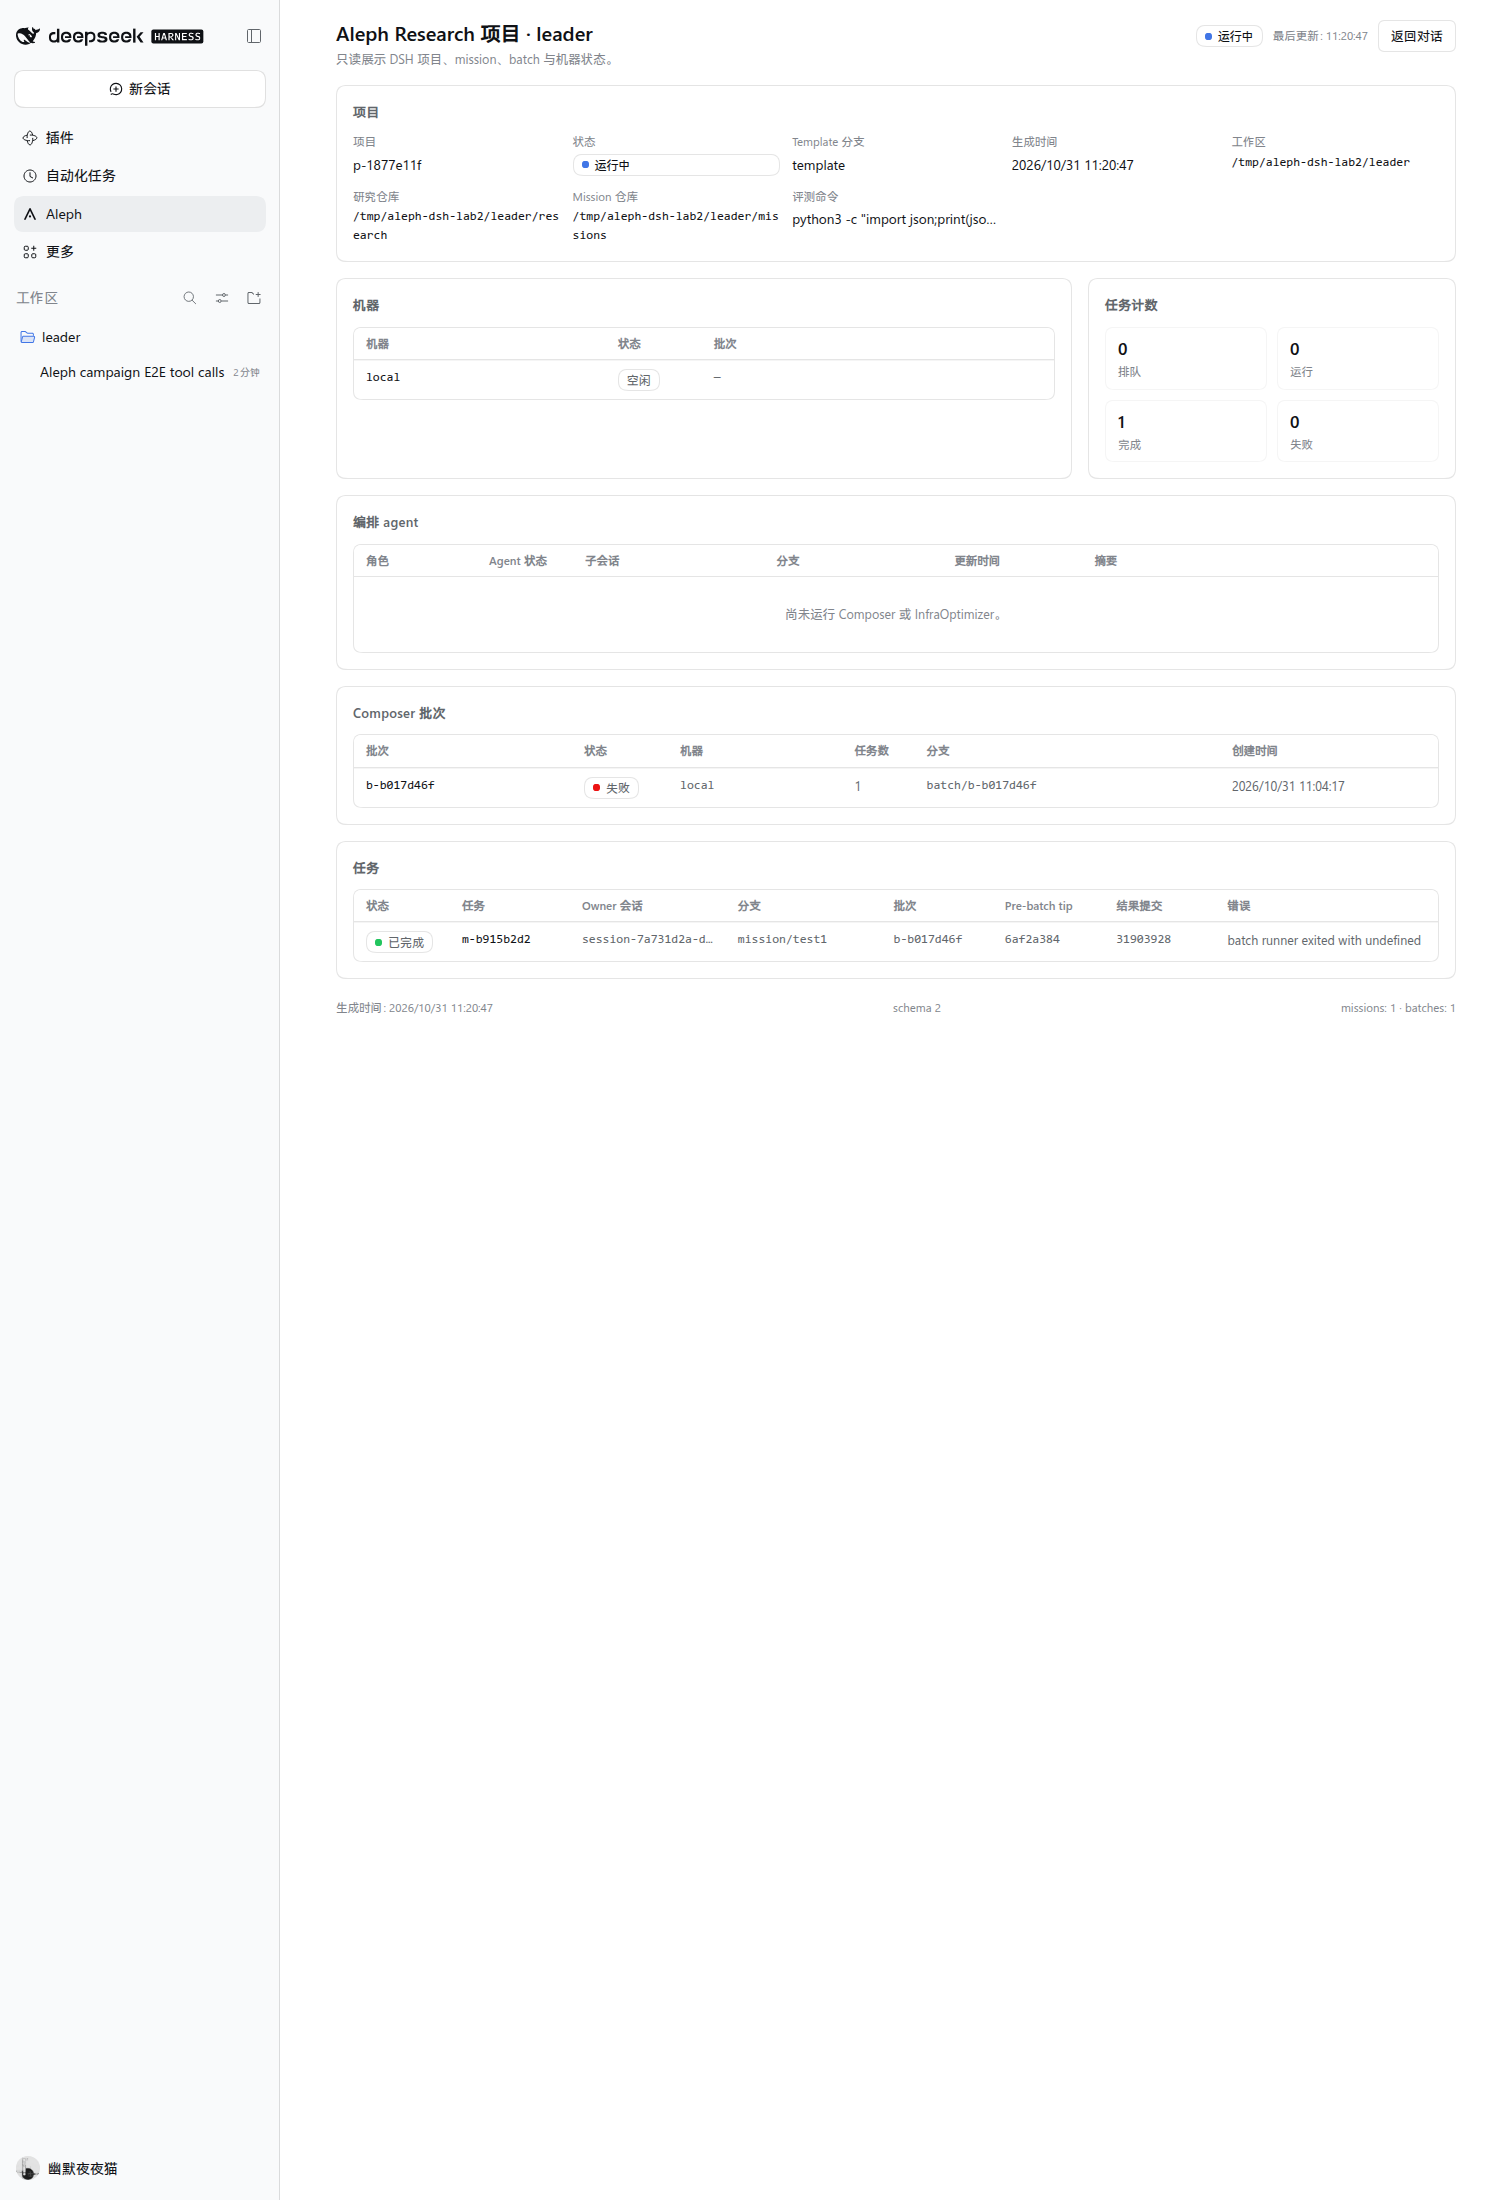
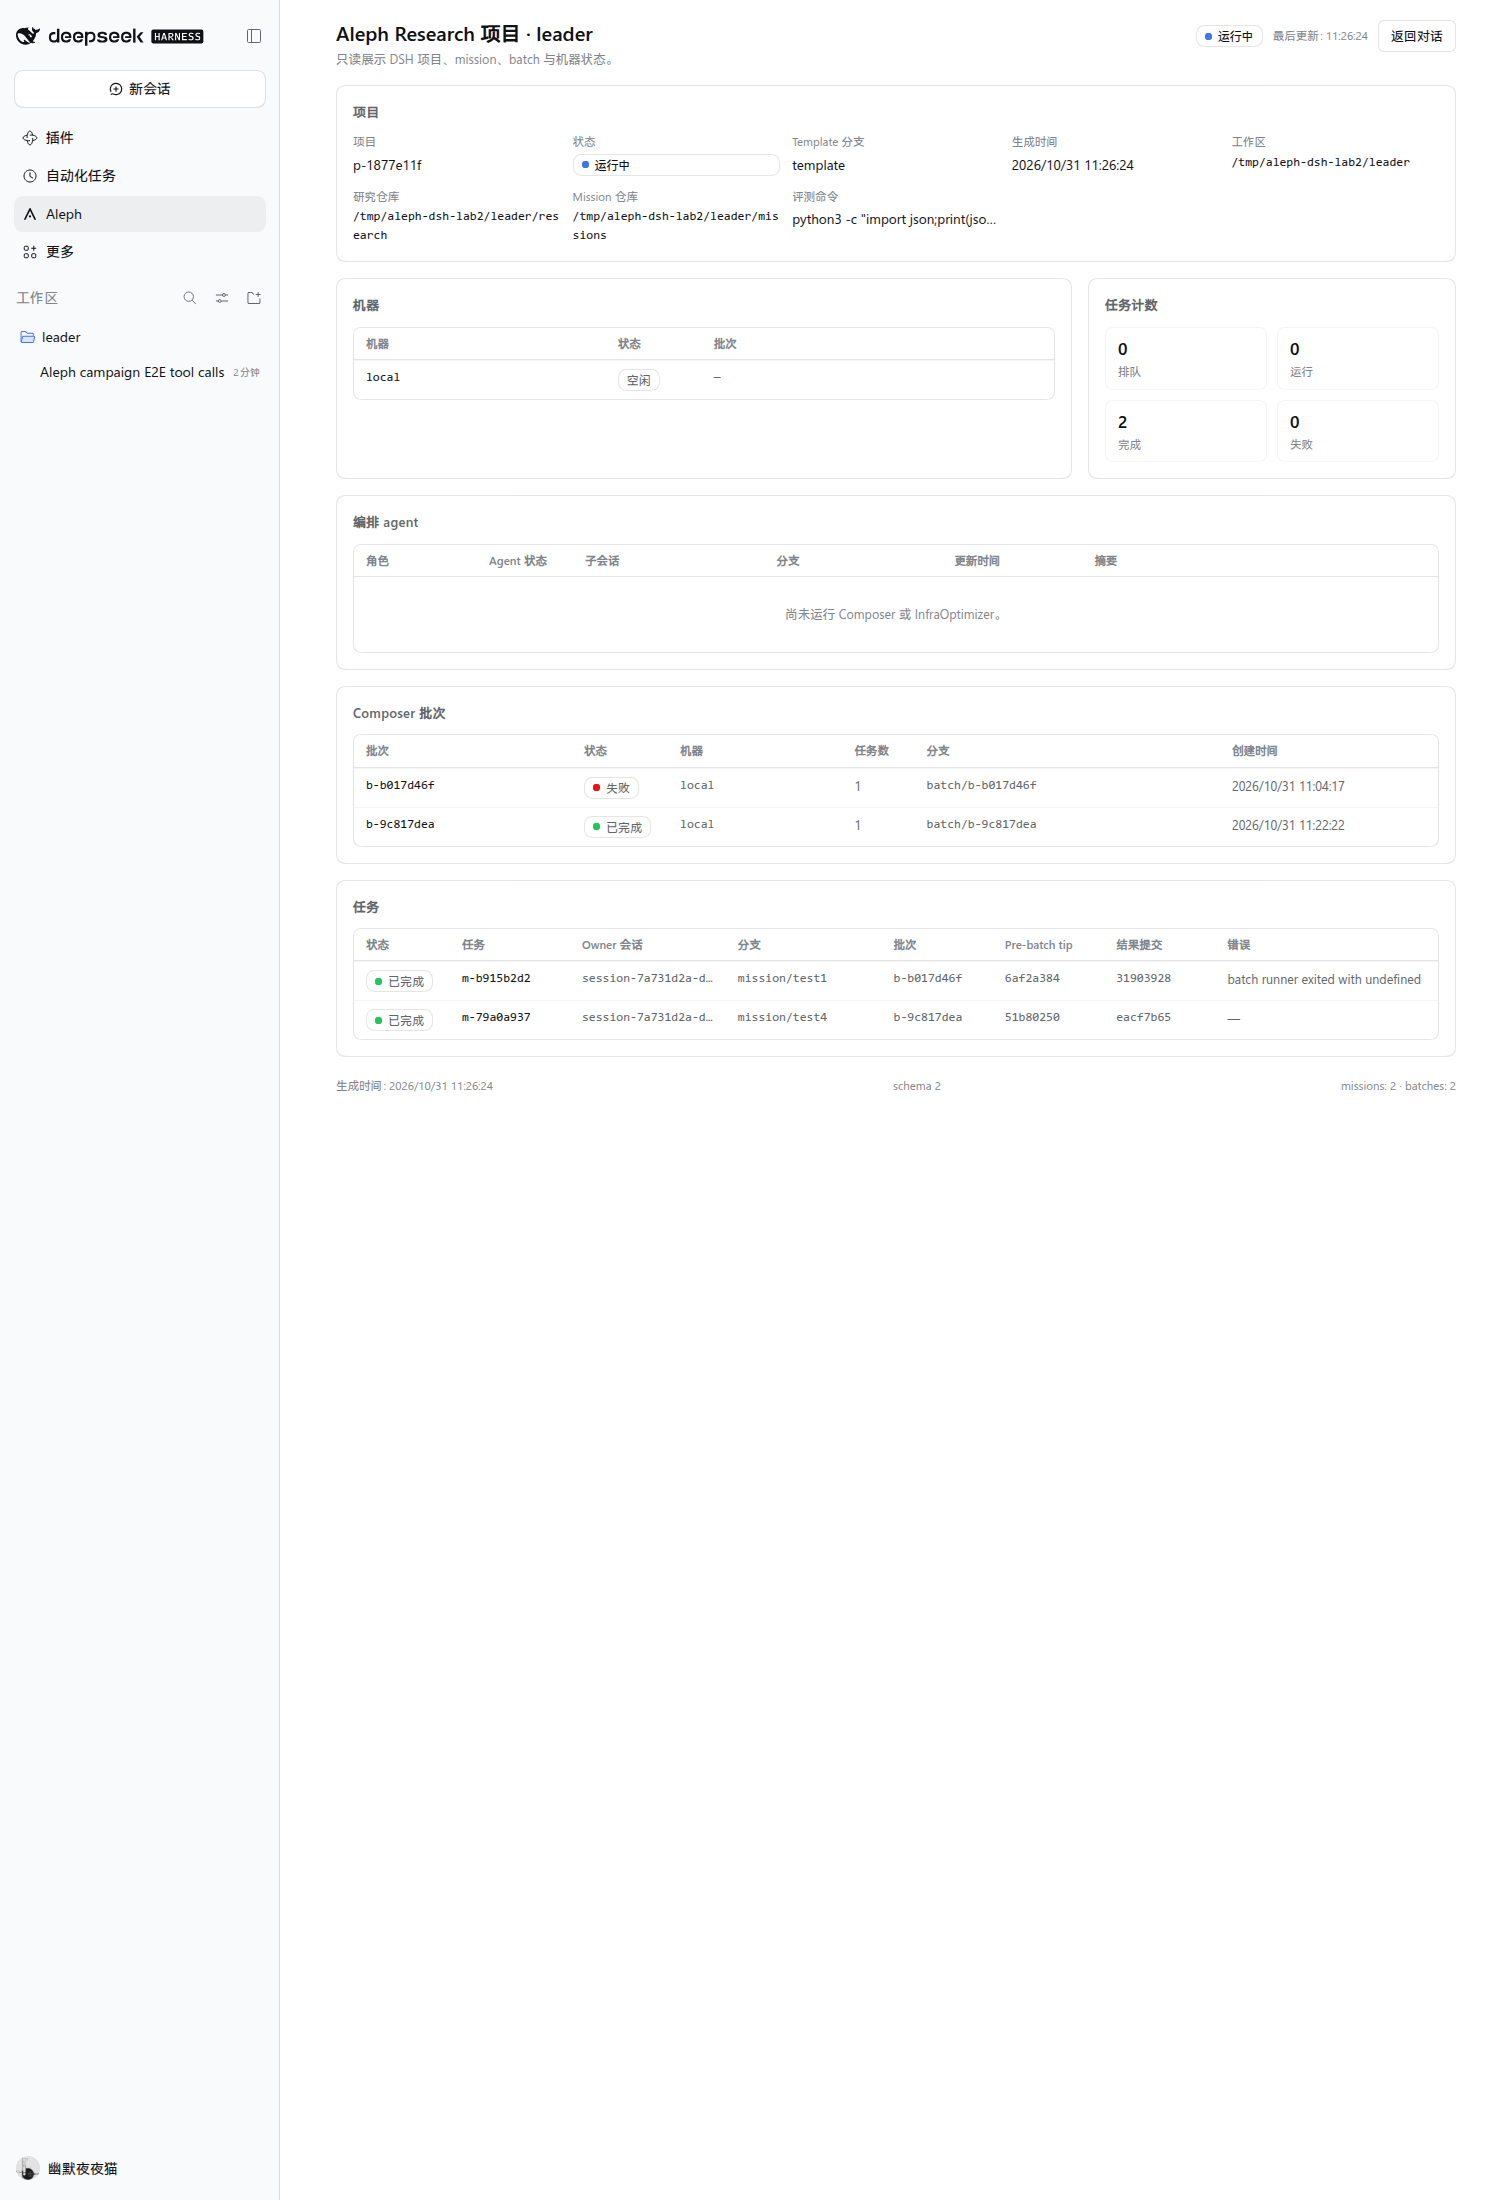
test: cover project missions, batches and result delivery
Add a Node integration test with a mock storage table and temporary git repositories. It covers project initialization, mission proposal, owner-specific waiting, Leader approval, Composer batch formation, batch execution, result envelope, cherry-pick to the pre-batch mission branch and research evaluation.

Document the InfraOptimizer batch closure on project p-1877e11f: batch b-9c817dea done, result commit eacf7b6 cherry-picked to mission/test4, machine returned idle.

diff --git a/dsh-plugin/index-v2.js b/dsh-plugin/index-v2.js
@@ -343,7 +343,6 @@ class ProjectService {
   async runBatch({ projectId, batchId }) {
     const project = this.get(projectId);
     if (!project) throw new Error(`project not found: ${projectId}`);
-    this.assertWorkspace(agent, project.workspace);
     const batch = project.batches.find((item) => item.id === batchId);
     if (!batch) throw new Error(`batch not found: ${batchId}`);
     if (batch.status !== 'forming') throw new Error(`batch ${batchId} is not runnable (status ${batch.status})`);
@@ -595,9 +594,10 @@ class ProjectService {
     const prompt = [
       'You are InfraOptimizer for AlephResearch.',
       `Batch: ${batch.id}. Machine: ${batch.machineId}. Work only inside this worktree: ${worktree}.`,
-      'Optimize the merged batch code for the actual machine: profile CPU/GPU/memory/IO, remove redundant work, tune threading, batching, precision, caching, data loading and runtime parameters.',
-      'Use short bounded benchmarks only. Do not start large training jobs, sweeps, background jobs or extra agents. Do not change project budget, queue or scheduling constraints.',
-      'Write ALEPH_HANDOFF.md with changes and before/after measurements. The Host commits the batch branch and then runs the single batch entrypoint.',
+      'Optimize only files under the current worktree. Do not inspect /home, /root, DSH profile/state, other projects, or search the filesystem. Do not start extra agents.',
+      'First read the batch files and the manifest. Make at most one focused optimization to threading, batching, import cost, allocation, precision or caching. Run one small before/after benchmark if cheap; otherwise inspect statically.',
+      'Use at most six shell commands total. If no safe improvement is justified, write ALEPH_HANDOFF.md and stop without changing code.',
+      'Write ALEPH_HANDOFF.md with changes and before/after measurements. Do not change project budget, queue or scheduling constraints. The Host commits the batch branch and runs the single batch entrypoint.',
     ].join('\n');
     const abort = new AbortController();
     let activation;
@@ -858,3 +858,5 @@ export async function apply(ctx) {
     },
   });
 }
+
+export { ProjectService, snapshot };

diff --git a/docs/STATUS.md b/docs/STATUS.md
@@ -27,13 +27,29 @@
 
 项目 `p-1877e11f`：
 
-- MissionComposer 创建 batch `b-61469d71`。
-- researcher 子会话 `f4fce692` 在 research repo 完成研究、evaluate，并写入
-  research commit `7fe854e`。
+- MissionComposer 创建 batch `b-9c817dea` 并绑定 local 机器。
+- InfraOptimizer 完成 batch 优化与运行；batch 状态 done，机器恢复 idle。
+- mission `m-79a0a937` 结果写入 `results/m-test4/result.json`，结果提交
+  `eacf7b6` cherry-pick 回 `mission/test4`。
+- researcher 子会话 `f4fce692` 完成研究、evaluate，并写入 research commit
+  `7fe854e`。
+
+## 测试
+
+`dsh-plugin/test/project.test.mjs` 使用临时 git repo 与 mock storage table 覆盖：
+
+- project 初始化与 template branch
+- mission 提案、自有 mission 等待、其他 researcher 不阻塞
+- Leader 审批
+- Composer 合并 batch
+- batch 运行与 per-mission result envelope
+- 结果 cherry-pick 回 pre-batch mission branch
+- research evaluate 与报告写入 research commit
+
+运行方式：`cd dsh-plugin && npm test`。
 
 ## 待完成
 
-- InfraOptimizer batch 运行的完整闭环验证（当前一次运行仍停在 agent 阶段）。
-- 自动化测试。
 - 多机接口。
 - 更完整的 Composer 冲突解决与结果归因。
+- 旧 client 中未使用代码清理。

diff --git a/README.md b/README.md
@@ -89,6 +89,12 @@ branch and cherry-picked back to the pre-batch branch.
 
 ## Status
 
-The project/mission/batch core, Composer agent, result cherry-pick and
-researcher evaluate path have been exercised in an isolated DSH. See
-`docs/STATUS.md` and `docs/architecture.md`.
+The project/mission/batch core, Composer agent, InfraOptimizer batch run,
+result cherry-pick and researcher evaluate path have been exercised in an
+isolated DSH. Run the core integration test with:
+
+```bash
+cd dsh-plugin && npm test
+```
+
+See `docs/STATUS.md` and `docs/architecture.md`.

diff --git a/docs/architecture.md b/docs/architecture.md
@@ -62,4 +62,6 @@ finishes.
 - One local machine; multi-machine is an interface extension.
 - Composer conflict handling is one merge attempt and fails to the operator.
 - Batch optimization is agent-driven and bounded by prompt.
-- Automated tests are not yet included.
+- The core project/mission/batch/result/evaluate path has an automated
+  integration test in `dsh-plugin/test`; multi-machine and richer conflict
+  handling remain future work.

diff --git a/dsh-plugin/README.md b/dsh-plugin/README.md
@@ -25,6 +25,7 @@ dsh plugin --profile web add "$PWD"
 
 ```bash
 npm install
+npm test
 node --check index-v2.js
 node --check client.js
 ```
